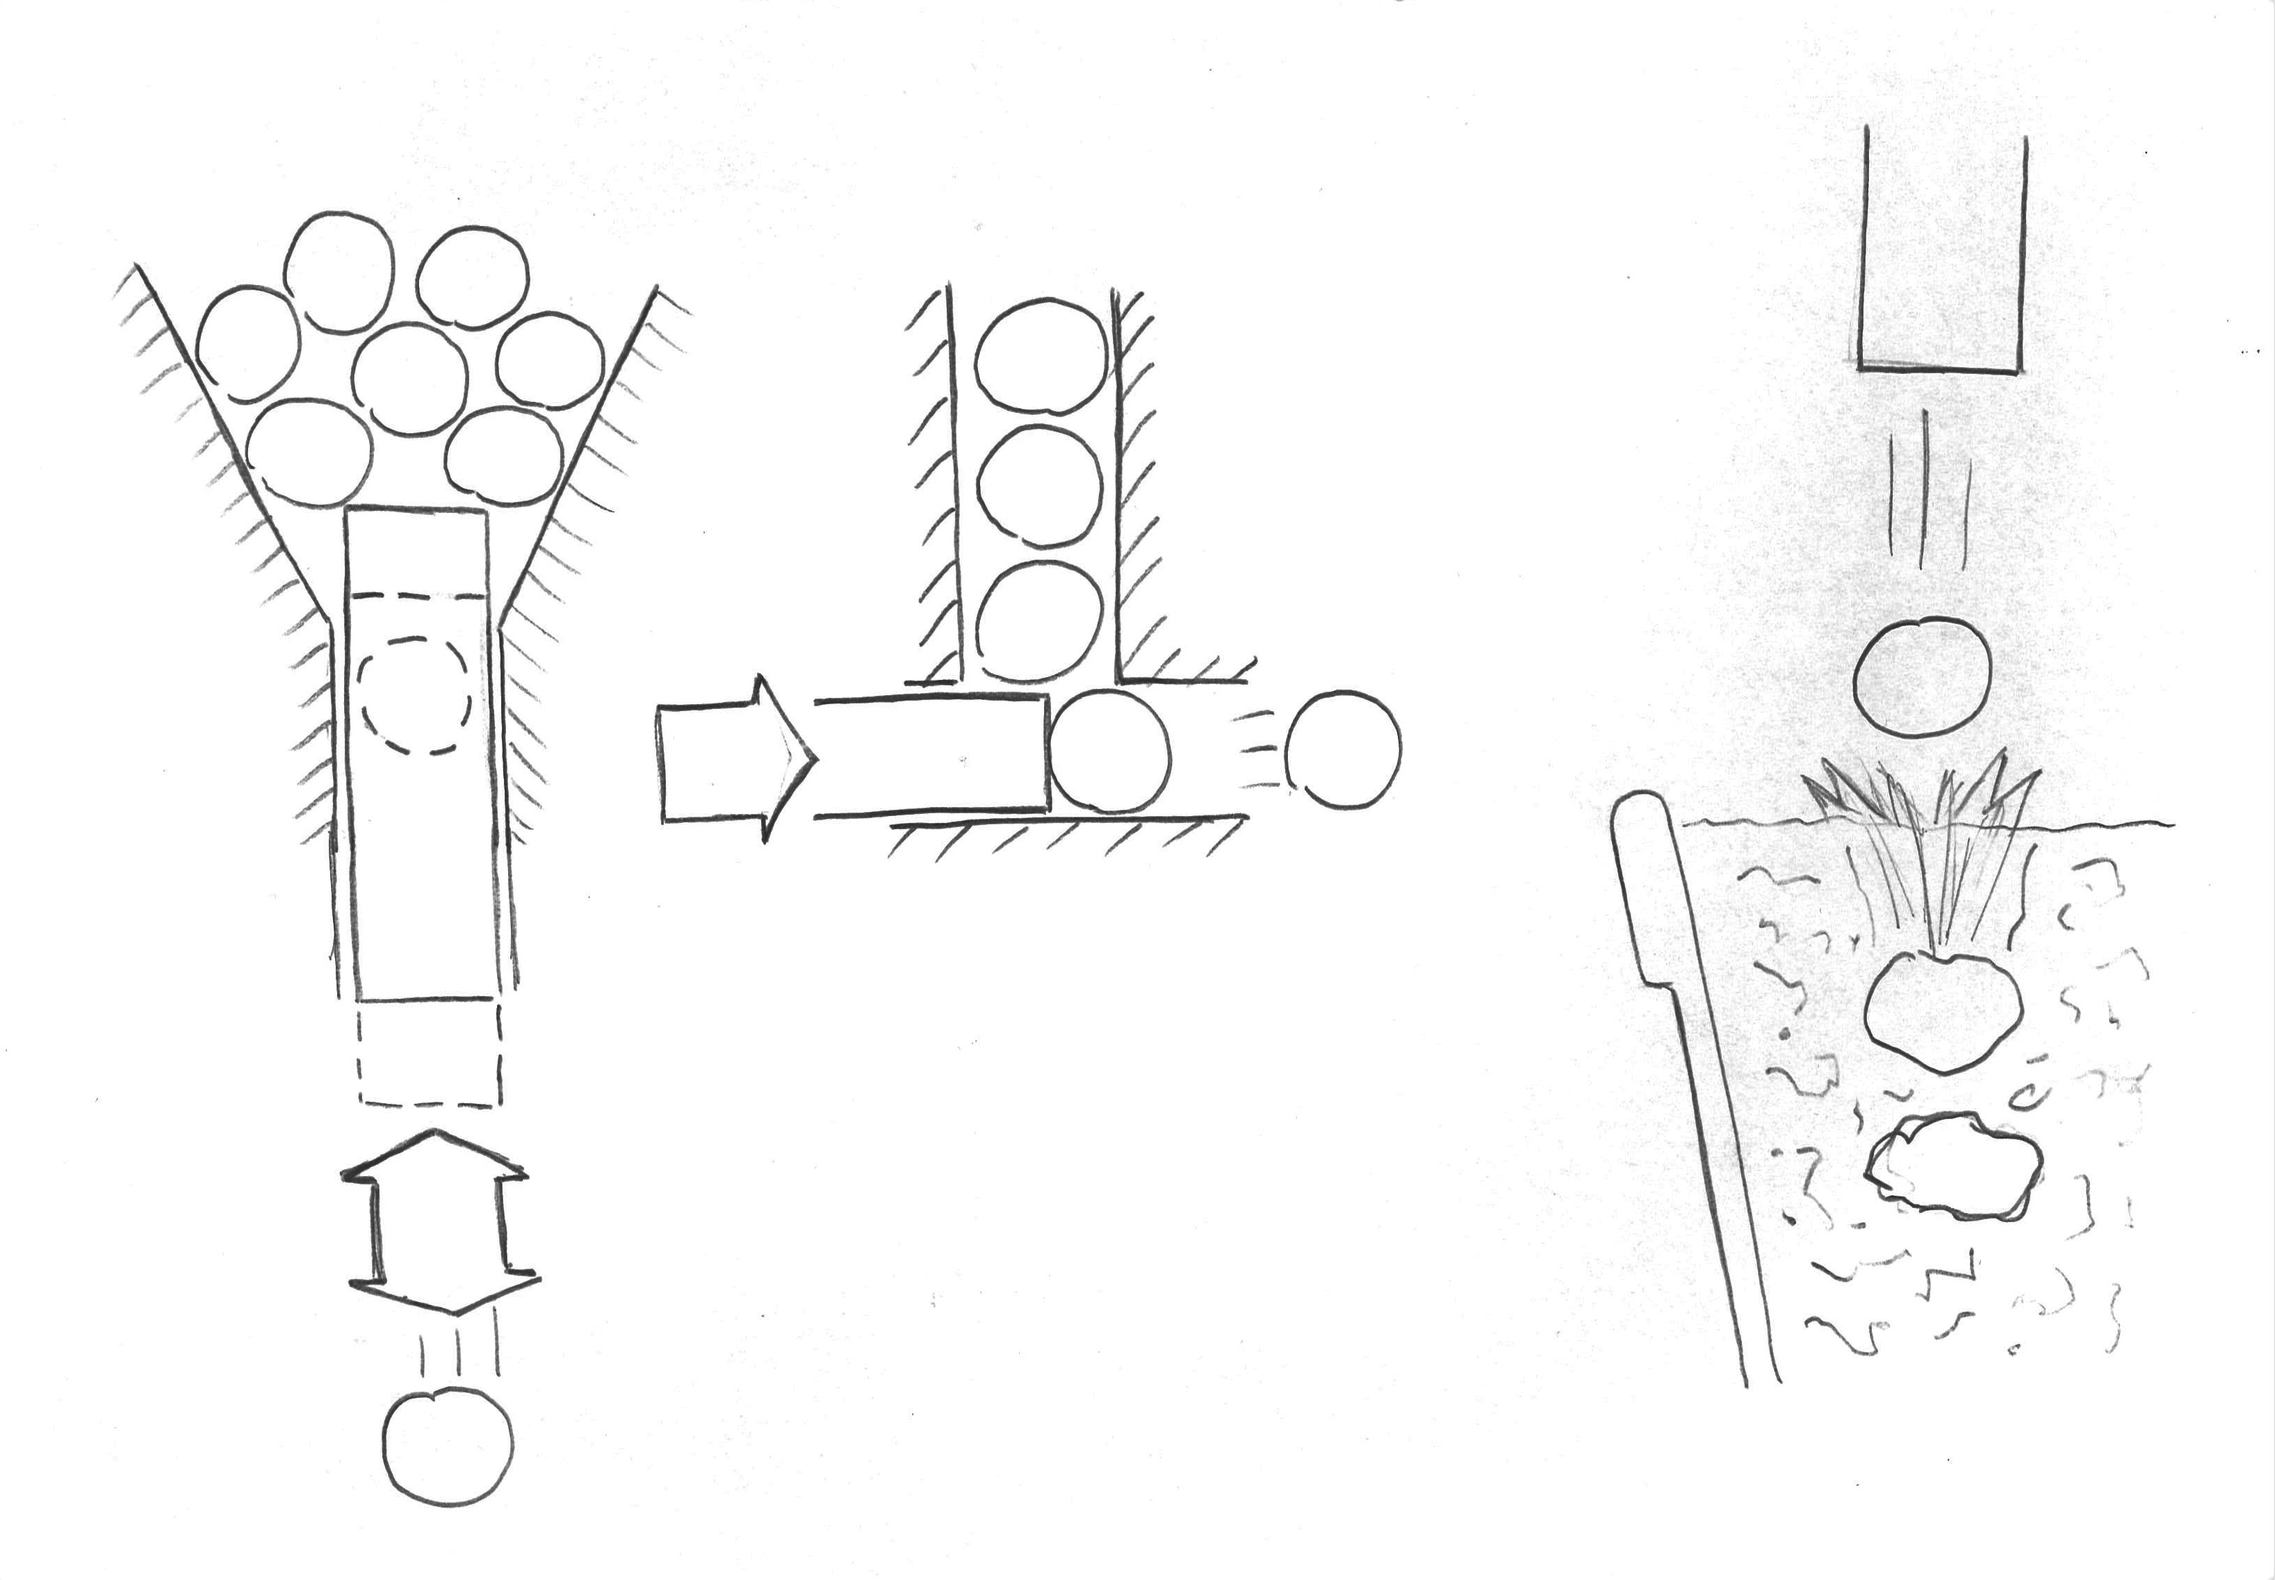
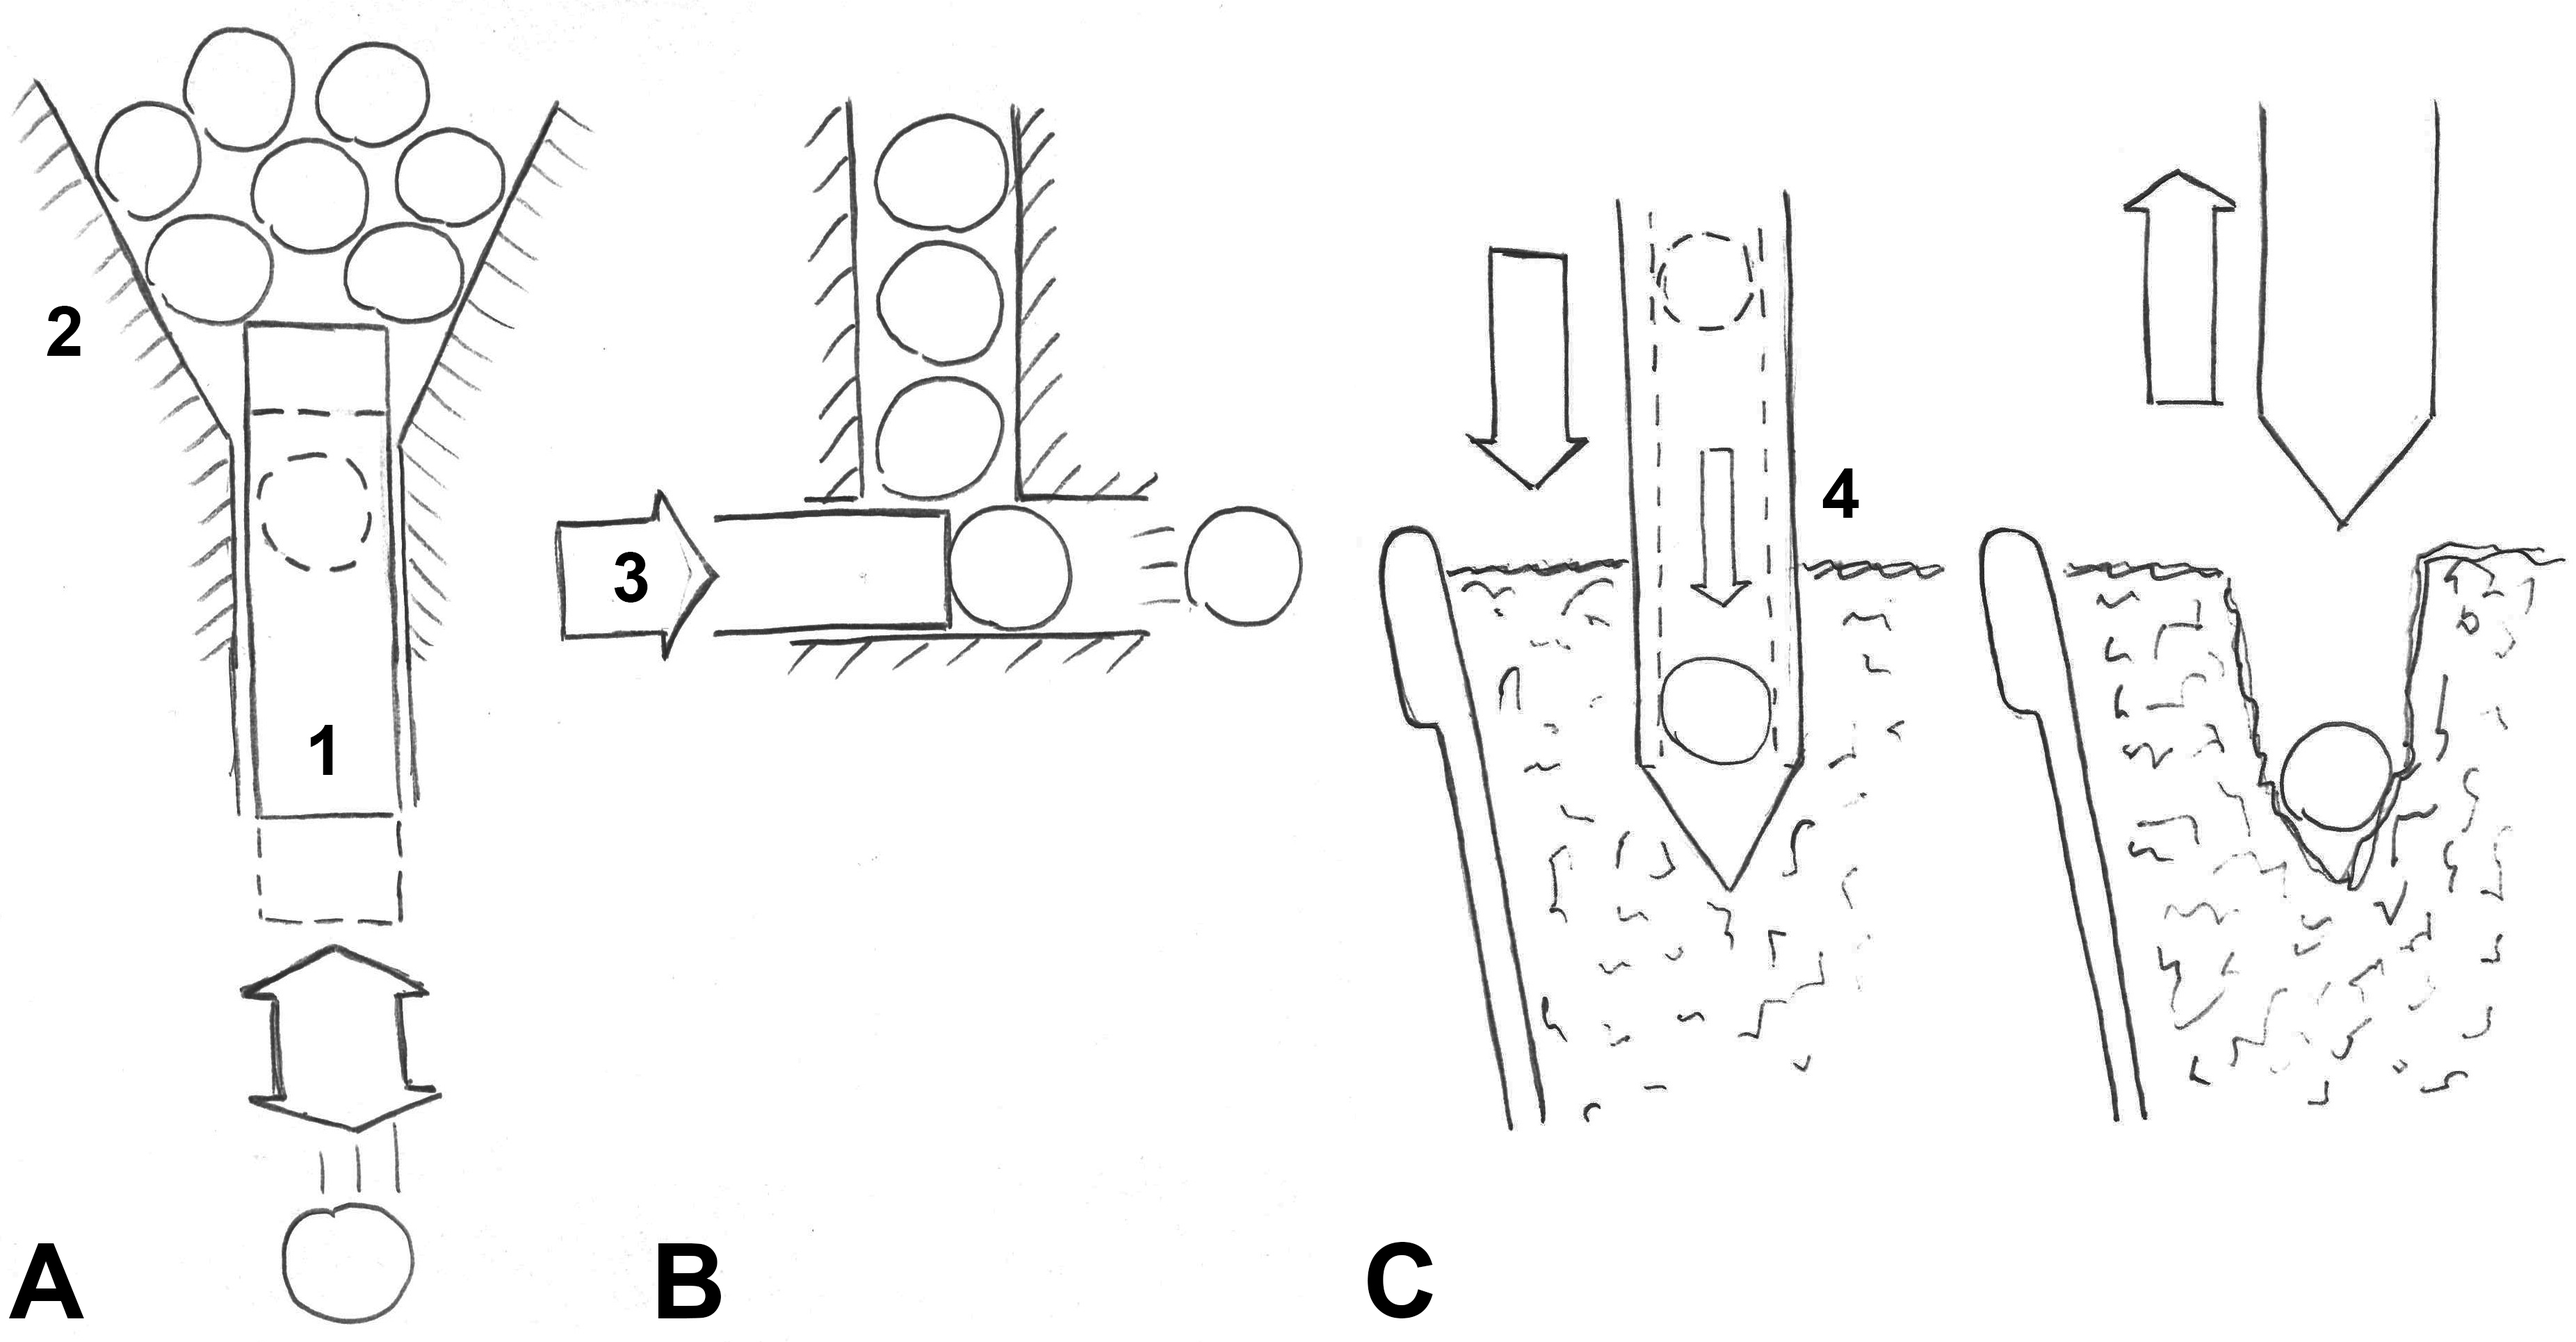
- edited two concept sketches - edited appendix - edited bibliography

diff --git a/Kapitel/6_Umsetzung/6.4_Setzeinheit.tex b/Kapitel/6_Umsetzung/6.4_Setzeinheit.tex
@@ -127,9 +127,9 @@ Als definitive Wahl wird die Spindel Ds10x25 aus Edelstahl ausgewählt. Folgende
 \newline
 Die Spindel wird durch ein Fest- sowie ein Loslager eindeutig gelagert. Das Festlager ist in der obersten Montageplatte (Punkt. 11 in Abb. \ref{fig:setzeinheit}) vorgesehen, das Loslager in der zweiten Montageplatte (12). Diese Anordnung ist bewusst so gewählt, sodass das Festlager Axialkräfte aufnimmt und Spindelantrieb axial unbelastet bleibt. Für die Lagerung werden fertige Lagerböcke von Mädler Norm-Antrieb AG verwendet, welche speziell für Spindeln ausgelegt sind. Diese sind einfach im Einbau und erfordern keinen zusätzlichen Entwicklungsaufwand. An der Spindel wird konstruktiv einen Freistich Form E gemäss Normen-Auszug umgesetzt (\textbf{Siehe Zeichnung XY})\cite{vsm}.
 \newline
-Zur mechanischen Verbindung zwischen Spindelantrieb und Spindel wird eine drehstarre Kupplung verwendet. Dadurch kann eine winkelgetreue Drehmomentenübertragung gewährleistet werden, was für diese Anwendung essentiell ist. Hierfür wird die Kupplung HELICAL WA 20-8-6 aus Aluminium von Ringspann AG verwendet. Die Wahl eines kleinen Aussendurchmessers (20mm) und eine leichter Werkstoff sind für ein möglichst geringes zusätzliches Trägheitsmoment entscheidend und wurde hier berücksichtigt.
+Zur mechanischen Verbindung zwischen Spindelantrieb und Spindel wird eine drehstarre Kupplung verwendet. Dadurch kann eine winkelgetreue Drehmomentenübertragung gewährleistet werden, was für diese Anwendung essentiell ist (\textbf{Quelle Dubbel}). Hierfür wird die Kupplung HELICAL WA 20-8-6 aus Aluminium von Ringspann AG verwendet \cite{helical}. Die Wahl eines kleinen Aussendurchmessers (20mm) und eine leichter Werkstoff sind für ein möglichst geringes zusätzliches Trägheitsmoment entscheidend und wurde hier berücksichtigt.
 \subsubsection{Montage}
-Wie schon mehrfach erwähnt werden mehrere verschiedenste Komponenten an Montageplatten montiert. Wie aus Abbildung \ref{fig:setzeinheit} ersichtlich, werden die Montageplatten vertikal angeordnet. Diese Anordnung bildet so das Gerüst für eine funktionierende Setzeinheit. Wie in Kapitel XY erwähnt, bietet sich die konsequente Fertigung mittels Lasermaschine an. Mechanisch fixiert werden die Montageplatten durch Aluminium Profile der Firma Kanya AG (weitere Informationen in \textbf{Kap XY}), wobei durch die Nut der Profile eine Blechdicke von 6mm vorgegeben ist. Diese Konstruktion bringt folgende Vorteile:
+Wie schon mehrfach erwähnt werden mehrere verschiedenste Komponenten an Montageplatten montiert. Wie aus Abbildung \ref{fig:setzeinheit} ersichtlich, werden die Montageplatten vertikal angeordnet. Diese Anordnung bildet so das Gerüst für eine funktionierende Setzeinheit. Wie in Kapitel \textbf{XY} erwähnt, bietet sich die konsequente Fertigung mittels Lasermaschine an. Mechanisch fixiert werden die Montageplatten durch Aluminium Profile der Firma Kanya AG (weitere Informationen in \textbf{Kap XY}), wobei durch die Nut der Profile eine Blechdicke von 6mm vorgegeben ist. Diese Konstruktion bringt folgende Vorteile:
 	\begin{itemize}
 	\item Auf unterschiedlichen Ebenen können so Komponenten angeordnet werden. Das Hinzufügen von weiteren Komponenten ist auf einfachste Art realisierbar. Kommt eine Komponente hinzu, wird die benötigte Kontur (z.B. ein Langloch oder Bohrung) vorgesehen und die Komponente ist montierbar.
 	\item Die Fixierung der Montageplatten durch Aluminium-Profile bringt weitere Flexibilität bei der Montage. Dadurch bleibt die Höhe der einzelnen Platten verstellbar. Auch seitlich können die Platten in eine Richtung verstellt werden.

diff --git a/Kapitel/5_Konzept/5.2_Konzept_Grün.tex b/Kapitel/5_Konzept/5.2_Konzept_Grün.tex
@@ -53,10 +53,10 @@ Der Prozess der Setzeinheit gestaltet sich folgendermassen:
 		\item Mittels Unterdruck wird das NemaCap an eingem Dorn angesaugt.
 	\end{itemize} 
 	\item \textbf{B - NemaCap transportieren:} Das NemaCap wird durch die Bewegung in X-Richtung über die Einsatzlokalität transportiert. Dabei werden die einzelnen Dorne durch Laufschienen geleitet und so auf den entprechenden Topfradius gelenkt. Die einzelnen Dorne sind miteinander verbunden, sodass diese lineare Bewegung nur ein Aktor erfordert.
-	\item \textbf{A - NemaCap setzen:} 
-	Über der Einsetzlokalität angekommen, bewegt sich der Dorn in Z-Richtung nach unten und stösst das NemaCap in die Erde. Dabei wird eine Beschädigung des NemaCaps bewusst in Kauf genommen, da dies gemäss Pflichtenheft zulässig ist. Wichtig ist, dass beim Zurückfahren des Dorns sich das NemaCap vom Dorn löst.
+	\item \textbf{C - NemaCap setzen:} 
+	Über der Einsetzlokalität angekommen, bewegt sich der Dorn in Z-Richtung nach unten und stösst das NemaCap in die Erde. Dabei wird eine Beschädigung des NemaCaps bewusst in Kauf genommen. Dies ist gemäss Pflichtenheft zulässig. Wichtig ist, dass beim Zurückfahren des Dorns sich das NemaCap vom Dorn löst.
 \end{itemize}
-Die Konfiguration des Setzmechanismus ist durch die Verstellung der Laufschienen möglich. Dabei sind die Laufschienen am oberen Ende (über dem Topf) in Y-Richtung verstellbar. So können die verschiedenen Topfgrössen gehandhabt werden.
+Die Konfiguration des Setzmechanismus ist durch die Verstellung der Laufschienen möglich. Dabei sind die Laufschienen (Punkt 1 in Abbildung \ref{fig:transport_green_pers}) am oberen Ende (über dem Topf) in Y-Richtung verstellbar. So können die verschiedenen Topfgrössen gehandhabt werden.
 
 \begin{figure}[H]
 	\includegraphics[scale=0.6]{Illustrationen/5-Konzept/green_2Dmachine_seite.jpg}

diff --git a/Kapitel/6_Umsetzung/6.5_Verstellmechanik.tex b/Kapitel/6_Umsetzung/6.5_Verstellmechanik.tex
@@ -28,7 +28,7 @@ Der Stechdorn wird durch zwei lineare Kulissen (Punkt 3 in Abb \ref{fig:schnitt_
 
 \textbf{Funktion}
 \newline
-Die Bewegung der Verstellmechanik ist in Abbildung \ref{fig:motion_vm} dargestellt. Punkt B bildet ein beliebiger Punkt ab. So wird am Anschlag (Punkt A aus Abb. \ref{fig:motion_vm}) die Einsetzlokalität des grössten Topfes (Dmax = 140mm) und bei halbem Weg der Kulisse die Einsetzlokalität des kleinsten Topfes (Dmin = 90mm) erreicht. Dabei fällt auf, dass das Doppelte des nötigen Weges implementiert wurde. Begründet wird dies damit, dass dadurch der hochübersetzte Getriebemotor mehr Umdrehungen absolviert bis der gewünschte Radius erreicht wird. Dies steigert die Auflösung des Motors und verbessert die Regelbarkeit massiv.
+Die Bewegung der Verstellmechanik ist in Abbildung \ref{fig:motion_vm} dargestellt. Punkt B bildet ein beliebiger Punkt ab. So wird am Anschlag (Punkt A aus Abb. \ref{fig:motion_vm}) die Einsetzlokalität des grössten Topfes (Dmax = 140mm) und bei halbem Weg der Kulisse die Einsetzlokalität des kleinsten Topfes (Dmin = 90mm) erreicht. Dabei fällt auf, dass das Doppelte des nötigen Weges implementiert wurde. Begründet wird dies damit, dass dadurch der hochübersetzte Getriebemotor mehr Umdrehungen absolviert bis der gewünschte Radius erreicht wird. Dies steigert die Auflösung des Motors und verbessert die Regelbarkeit.
 	\begin{figure}[H]
 	\includegraphics[scale=0.53]{Illustrationen/6-Umsetzung/motion_vm.jpg}
 	\caption{Verstellung des Topfradius}

diff --git a/Kapitel/5_Konzept/5.4_Funktionsnachweis_krit._Funktionen.tex b/Kapitel/5_Konzept/5.4_Funktionsnachweis_krit._Funktionen.tex
@@ -61,7 +61,7 @@ Folgende Erkenntnisse lieferten die Versuche:
 \textbf{Bild des Funktionstests?}
 
 \subsubsection{NemaCaps setzen}
-Ein Lösungsansatz der Teilfunktion "NemaCaps setzen" basiert auf der Idee zuerst ein Loch auszuheben oder zu verdrängen und anschliessend ein NemaCap ins Loch fallen zu lassen. Ähnlich ist eine weitere Idee, welche mit einer spitzen Zange das Loch verdrängt wird, sich die Zange in der Erde öffnet und so ein NemaCap platziert. Schemaisch dargestellt sind beide Ansätze in Abbildung \ref{fig:skizze_setzversuch}.
+Ein Lösungsansatz der Teilfunktion NemaCaps setzen basiert auf der Idee zuerst ein Loch auszuheben oder zu verdrängen und anschliessend ein NemaCap ins Loch fallen zu lassen. Ähnlich ist eine weitere Idee, welche mit einer spitzen Zange das Loch verdrängt wird, sich die Zange in der Erde öffnet und so ein NemaCap platziert. Schemaisch dargestellt sind beide Ansätze in Abbildung \ref{fig:skizze_setzversuch}.
 \newline
 Um die Umsetzbarkeit dieser Ideen zu überprüfen, werden zwei Versuche durchgeführt:
 \begin{itemize}

diff --git a/Kapitel/6_Umsetzung/6.6_Stechdorn.tex b/Kapitel/6_Umsetzung/6.6_Stechdorn.tex
@@ -68,7 +68,7 @@ Die komplexe Geometrie dieser Teile sind ausschlaggebend, dass Rapid Prototyping
 
 \textbf{Schlauch}
 \newline
-Für den Transport der NemaCaps zwischen Vereinzelung und Stechdorn wird die Gravitation verwendet. Dabei werden die fallenden NemaCaps durch einen Pneumatikschlauch geleitet. Auch stellt der Schlauch sicher, dass eine flexible Verbindung zum bewegten Stechdorn existiert. In der Pneumatik sind folgende Schlauchdimensionen gängig (nach Camozzi Katalog):
+Für den Transport der NemaCaps zwischen Vereinzelung und Stechdorn wird die Gravitation verwendet. Dabei werden die fallenden NemaCaps durch einen Pneumatikschlauch geleitet. Auch stellt der Schlauch sicher, dass eine flexible Verbindung zum bewegten Stechdorn existiert. In der Pneumatik sind folgende Schlauchdimensionen gängig \cite{camozzi}:
 \newline
 \begin{table}[H]
 \begin{tabular}{|c|c|}

diff --git a/Kapitel/5_Konzept/5.1_Konzept_Grau.tex b/Kapitel/5_Konzept/5.1_Konzept_Grau.tex
@@ -15,7 +15,7 @@ Die Konfiguration des Setzmechanismus wird dabei durch die radiale Verstellung d
 
 Dabei muss gewährleistet sein, dass das eintauchende Rohr nicht durch Erdpartikel verstopft wird.
 \begin{figure}[H]
-	\includegraphics[scale=0.6]{Illustrationen/5-Konzept/grau_Konzept.jpg}
+	\includegraphics[scale=0.54]{Illustrationen/5-Konzept/grau_Konzept.jpg}
 	\caption{Konzeptskizze von Konzept Grau}
 	\label{fig:konzept_grau}
 \end{figure}

diff --git a/Kapitel/10_Anhang/10_Anhang.tex b/Kapitel/10_Anhang/10_Anhang.tex
@@ -15,6 +15,15 @@ Folgende Dokumente befinden sich in schriftlicher Form im Anhang:
 	
 \end{itemize}
 
+Folgende Dateien befinden sich in digitaler Form im Anhang:
+
+\begin{itemize}
+	\item \verb|Fertigungsunterlagen Blechbearbeitung|
+	\item \verb|Fertigungsunterlagen Rapid Prototyping|
+	\item \verb|CAD-Dateien|	
+	
+\end{itemize}
+
 \includepdf[pages=-,nup=1x1]{Illustrationen/10-Anhang/Aufgabenstellung.pdf}
 
 \end{appendix}

diff --git a/Kapitel/6_Umsetzung/6.9_Peripherie.tex b/Kapitel/6_Umsetzung/6.9_Peripherie.tex
@@ -15,6 +15,5 @@
 	
 	\item Die Tatsache, dass die Hochschule Luzern bei Kanya AG bereits Kunde ist, hebt Kanya AG von anderen Konkurrenten ab. Die positiven Erfahrungen und raschen Lieferzeiten überzeugen.
 \end{itemize}
-
-
+Weitere Informationen zum Baukastensystem von Kanya AG ist aus dem Katalog zu entnehmen \cite{kanya}.
 \subsubsection{Verdrahtung}
